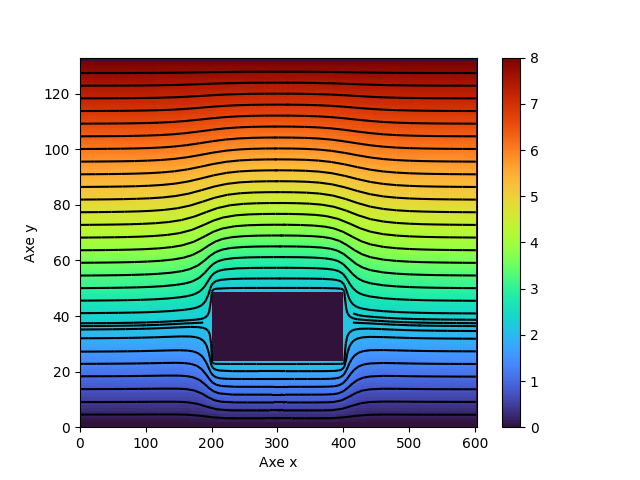
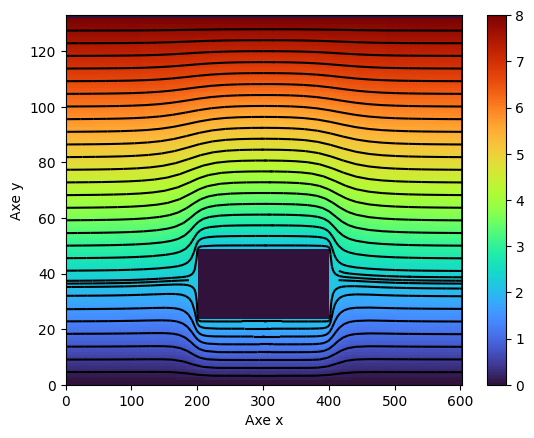
refreshing

diff --git a/genfig.py b/genfig.py
@@ -1,6 +1,6 @@
 import numpy as np
 from matplotlib import pyplot as plt
-
+import  utils
 import flotte as plouf
 
 
@@ -15,7 +15,7 @@ def figstream(dom, cl, num, number, show=False):
     plt.colorbar()
     plt.xlabel('Axe x')
     plt.ylabel('Axe y')
-    plt.savefig("pictures/stream" + str(number) + ".png")
+    plt.savefig("pictures/stream" + str(number) + ".png", bbox_inches='tight')
     if show:
         plt.show(block=False)
     plt.close()
@@ -27,7 +27,7 @@ def figpressure(dom, cl, num, number, show=False):
     u, v = plouf.velocity(dom, psi, 2)
     plt.pcolor(plouf.pressure(u.T, v.T), cmap='turbo')
     plt.colorbar()
-    plt.savefig("pictures/pressure" + str(number) + ".png")
+    plt.savefig("pictures/pressure" + str(number) + ".png", bbox_inches='tight')
     if show:
         plt.show(block=False)
     plt.close()
@@ -37,7 +37,7 @@ def getFC(dom, cl, num, number):
     # returns the Force and the circulation
     psi = plouf.laplace(dom, cl, num)
     u, v = plouf.velocity(dom, psi, 2)
-    Ix, Iy, Iu, Iv = plouf.getIntrestPoint(u, v, dom, case4=(number == 4))
+    Ix, Iy, Iu, Iv = utils.getInterestPoint(u, v, dom, case4=(number == 4))
     Ip = plouf.pressure(Iu, Iv)
     F = plouf.force(Ip, Ix, Iy)
     return F, plouf.circu(Iu, Iv, Iy, Ix)
